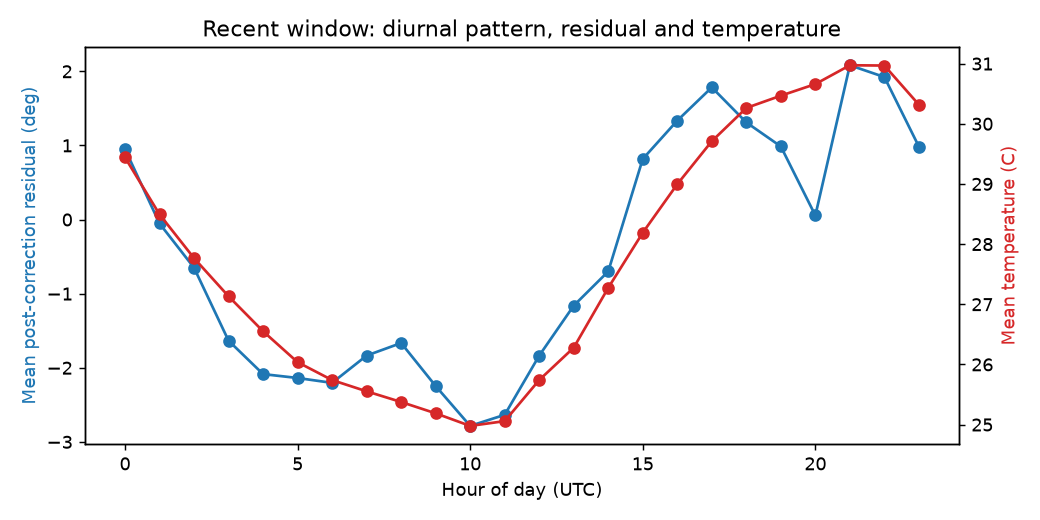
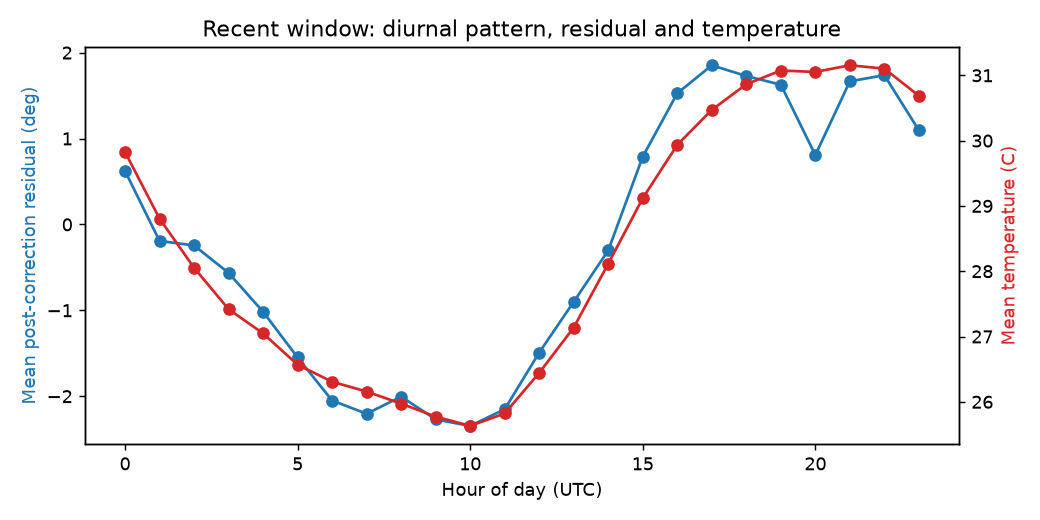
Extend recent-window coefficient check to full 9-day dataset (7/20-29)
Re-pulled 2026-07-20 17:00 local -> now (150k samples vs. 50k in the
initial 3-day check) and reran the same clean/correlate pipeline.
Bumped InfluxDB client read timeout to 300s -- the larger pull was
timing out at the previous default.

Findings hold up and sharpen with more data:
- Post-correction residual vs temp: +0.857 deg/C, r^2=0.67 (was +0.825,
  r^2=0.73) -- still the overcorrection signature.
- Reconstructed pre-correction raw slope: -0.164 deg/C, r^2=0.07 (was
  -0.196, r^2=0.13) -- weaker AND noisier with more data, not stronger.
  The -1.0211 deg/C deployed coefficient does not replicate.
- Wind coefficient stable at ~-0.20 deg/kn across both windows even as
  temp/wind collinearity dropped (r=0.54 -> 0.27) -- the more reliable
  finding in this analysis at this point, more so than any temperature
  coefficient.

Recommendation unchanged: reduce slope_deg_per_c well below -1.0211
(not a fresh confident refit off r^2=0.07) via the existing NVS-backed
POST /api/thermal/config, monitor, and separately verify mooring/
dockline slack before treating any residual as thermal.

diff --git a/analysis/thermal-drift/pull_recent.py b/analysis/thermal-drift/pull_recent.py
@@ -58,7 +58,7 @@ def main():
     out_dir = Path(__file__).parent / "data"
     out_dir.mkdir(exist_ok=True)
 
-    client = InfluxDBClient(url=INFLUXDB_URL, token=INFLUXDB_TOKEN, org=INFLUXDB_ORG)
+    client = InfluxDBClient(url=INFLUXDB_URL, token=INFLUXDB_TOKEN, org=INFLUXDB_ORG, timeout=300_000)
     series = {}
     for sk_path, (col_name, convert) in PATHS.items():
         print(f"Fetching {sk_path} ...")

diff --git a/analysis/thermal-drift/recent_correlation_summary.md b/analysis/thermal-drift/recent_correlation_summary.md
@@ -2,61 +2,61 @@
 
 Deployed firmware (v1.3.2) is already applying: slope = -1.0211 deg/C, T_ref = 30.0723 C. `heading_deg` below (navigation.headingCompass) is therefore the *post-correction* output, not raw sensor output.
 
-Baseline heading (median, post-correction): 212.257 deg
-Samples used: 50954
-Temperature range: 22.95 - 32.64 C
+Baseline heading (median, post-correction): 213.166 deg
+Samples used: 150734
+Temperature range: 22.95 - 33.60 C
 
 ## 1. Post-correction residual vs. temperature
-slope = 0.8250 deg/C, intercept = -23.3787 deg
-r = 0.8544, r^2 = 0.7301, p = 0.000e+00
+slope = 0.8568 deg/C, intercept = -24.5347 deg
+r = 0.8163, r^2 = 0.6663, p = 0.000e+00
 A large *positive* slope here (opposite sign to the original pre-correction -1.0211 deg/C fit) is the signature of overcorrection: the firmware is adding back more than the sensor is currently losing to temperature.
 
 ## 2. Wind-controlled multiple regression (post-correction residual ~ temp_c + wind_kn)
-intercept = -25.3155, temp_coef = 0.9578 deg/C, wind_coef = -0.2234 deg/kn
-R^2 = 0.7761  (vs. R^2 = 0.7301 for temp alone)
+intercept = -25.7189, temp_coef = 0.9427 deg/C, wind_coef = -0.2026 deg/kn
+R^2 = 0.7512  (vs. R^2 = 0.6663 for temp alone)
 
 ## 3. Diurnal pattern (hourly mean, UTC hour of day)
-      residual     temp_c    wind_kn
-hour                                
-0     0.951143  29.440673   7.645572
-1    -0.052941  28.493928   6.783400
-2    -0.650434  27.766314   6.604808
-3    -1.634724  27.132063   7.148715
-4    -2.085520  26.551071   7.199001
-5    -2.137945  26.037224   7.643224
-6    -2.203810  25.739619   7.441887
-7    -1.835681  25.552861   7.165682
-8    -1.666075  25.375218   6.292132
-9    -2.246448  25.187034   7.214700
-10   -2.784641  24.977756   5.914902
-11   -2.634937  25.057507   6.916672
-12   -1.836216  25.740299   7.269102
-13   -1.161983  26.278486   7.121693
-14   -0.699788  27.273178   8.137221
-15    0.817709  28.189556   7.942638
-16    1.334897  28.995577   8.881965
-17    1.783524  29.710248   9.592670
-18    1.310936  30.263057   9.327735
-19    0.986344  30.466782   9.957227
-20    0.055005  30.659794  10.107152
-21    2.081888  30.972622   9.128675
-22    1.922801  30.967929   9.175391
-23    0.983567  30.316528   8.399999
+      residual     temp_c   wind_kn
+hour                               
+0     0.623305  29.826772  6.419557
+1    -0.192548  28.806370  5.469951
+2    -0.244593  28.053291  4.741585
+3    -0.564285  27.418748  4.620766
+4    -1.016782  27.047300  4.692974
+5    -1.548506  26.567980  4.760024
+6    -2.049818  26.307062  5.488292
+7    -2.204277  26.156909  8.414998
+8    -2.004545  25.971479  4.848863
+9    -2.270039  25.773711  4.705315
+10   -2.345634  25.630623  4.054721
+11   -2.151888  25.821283  4.659122
+12   -1.492049  26.443042  5.169555
+13   -0.900374  27.137909  5.528432
+14   -0.302756  28.115400  6.271103
+15    0.789435  29.118298  6.988225
+16    1.525922  29.935723  7.805520
+17    1.852695  30.471083  7.842077
+18    1.727106  30.863923  7.791808
+19    1.626865  31.074124  8.217730
+20    0.807299  31.052024  8.225244
+21    1.666250  31.154418  7.933187
+22    1.736710  31.102694  7.260342
+23    1.094665  30.686350  6.991147
 
 ## 4. Reconstructed pre-correction ('raw sensor') signal vs. temperature
 Backs out the firmware's applied correction to estimate what the sensor's own output looks like before v1.3.2 compensation, for direct comparison with the original 2026-07-08/13 dockside fit.
-Reconstructed raw slope = -0.1958 deg/C (implied T_ref = 26.665 C), r = -0.3639, r^2 = 0.1324
+Reconstructed raw slope = -0.1643 deg/C (implied T_ref = 27.452 C), r = -0.2610, r^2 = 0.0681
 Original dockside fit (analysis/thermal-drift/correlation_summary.md): slope = -1.0211 deg/C, r^2 = 0.7666
-Magnitude ratio (this window / original fit): 0.19x
+Magnitude ratio (this window / original fit): 0.16x
 
 ## 5. Wind-controlled regression on the reconstructed raw signal
-intercept = 3.2869, temp_coef = -0.0627 deg/C, wind_coef = -0.2244 deg/kn, R^2 = 0.2821
-temp/wind collinearity in this window: r = 0.5387
+intercept = 3.3368, temp_coef = -0.0787 deg/C, wind_coef = -0.2025 deg/kn, R^2 = 0.3053
+temp/wind collinearity in this window: r = 0.2689
 Temperature's own contribution drops sharply once wind is included, while wind picks up a comparable-sized coefficient. Combined with the temp/wind collinearity above, this means the residual measured here may be partly (or mostly) a wind-correlated effect rather than pure sensor thermal drift -- and if the boat has any freedom to swing at the dock/mooring, part of this could be genuine heading change, not sensor error at all. This should be checked (mooring/dockline configuration, rate-of-turn during wind shifts) before trusting a temperature-only refit.
 
 ## 6. Synthesis / recommendation
-1. The post-correction heading still shows a strong residual-vs-temperature relationship (slope +0.825 deg/C, r^2=0.73), opposite in sign to the original raw fit -- the signature of overcorrection, not undercorrection.
-2. Reconstructing the pre-correction raw signal gives a current thermal slope of only -0.196 deg/C (r^2=0.13), about 0.2x weaker than the -1.0211 deg/C, r^2=0.77 relationship the deployed coefficient was fit on -- the coefficient is sized for a much stronger effect than is present now.
+1. The post-correction heading still shows a strong residual-vs-temperature relationship (slope +0.857 deg/C, r^2=0.67), opposite in sign to the original raw fit -- the signature of overcorrection, not undercorrection.
+2. Reconstructing the pre-correction raw signal gives a current thermal slope of only -0.164 deg/C (r^2=0.07), about 0.2x weaker than the -1.0211 deg/C, r^2=0.77 relationship the deployed coefficient was fit on -- the coefficient is sized for a much stronger effect than is present now.
 3. However, wind is a significant competing/confounding factor here (see section 5) in a way it was not in the original dockside fit -- so before deploying a new fixed slope, recommend: (a) temporarily set slope_deg_per_c=0 via POST /api/thermal/config and watch Grafana to confirm overcorrection is the dominant effect, (b) confirm mooring/dockline configuration didn't allow the boat to swing with wind during this window, (c) only then refit, ideally with wind included in the deployed model rather than temperature alone.
 
 ## Plots written

diff --git a/analysis/thermal-drift/data/recent_data_quality_summary.md b/analysis/thermal-drift/data/recent_data_quality_summary.md
@@ -1,11 +1,11 @@
 # eCompass Recent-Window Coefficient Check — Data Quality Summary
 
-Raw window: 2026-07-20 21:00:00.335000+00:00 -> 2026-07-23 19:46:06.172000+00:00
-Raw rows: 769021
-Heading samples: 63548 (~898.32/hr)
+Raw window: 2026-07-20 21:00:00.335000+00:00 -> 2026-07-29 14:24:17.872000+00:00
+Raw rows: 2281726
+Heading samples: 188131 (~899.05/hr)
 
 ## Gaps in heading series (> 5.0s)
-Total gaps: 51
+Total gaps: 90
                          gap_end  gap_s
 2026-07-21 00:27:41.911000+00:00 15.947
 2026-07-21 10:27:58.348000+00:00 27.854
@@ -58,20 +58,73 @@ Total gaps: 51
 2026-07-23 10:37:01.547000+00:00 80.581
 2026-07-23 13:24:09.641000+00:00  7.898
 2026-07-23 15:31:18.040000+00:00  8.192
+2026-07-24 10:53:27.002000+00:00  8.090
+2026-07-24 11:56:18.598000+00:00 19.891
+2026-07-24 11:59:36.204000+00:00  5.384
+2026-07-24 12:01:39.884000+00:00  9.076
+2026-07-24 12:02:15.941000+00:00  5.152
+2026-07-24 12:56:06.705000+00:00 12.026
+2026-07-24 12:59:58.777000+00:00 15.952
+2026-07-24 13:09:46.782000+00:00 23.977
+2026-07-24 13:15:06.631000+00:00 15.844
+2026-07-24 19:30:21.039000+00:00  5.844
+2026-07-25 13:15:04.988000+00:00  8.998
+2026-07-26 11:10:38.462000+00:00  5.390
+2026-07-26 11:27:25.166000+00:00 24.082
+2026-07-26 11:32:35.021000+00:00  5.824
+2026-07-26 19:44:17.648000+00:00  7.889
+2026-07-27 10:14:38.271000+00:00 19.909
+2026-07-27 10:34:39.905000+00:00  5.552
+2026-07-27 11:53:46.312000+00:00 19.988
+2026-07-27 12:00:31.537000+00:00  5.100
+2026-07-27 12:03:46.272000+00:00 15.829
+2026-07-27 12:21:31.821000+00:00  5.474
+2026-07-27 14:01:34.549000+00:00 15.972
+2026-07-27 14:43:48.249000+00:00  5.611
+2026-07-27 16:11:02.205000+00:00  7.577
+2026-07-27 20:00:24.916000+00:00  9.906
+2026-07-27 20:00:30.769000+00:00  5.853
+2026-07-27 21:13:58.881000+00:00 23.961
+2026-07-28 10:42:15.349000+00:00 23.742
+2026-07-28 16:18:54.146000+00:00  6.031
+2026-07-28 19:43:36.016000+00:00  7.918
+2026-07-28 19:47:17.104000+00:00  5.047
+2026-07-28 19:47:53.727000+00:00  5.547
+2026-07-28 20:27:20.072000+00:00  8.000
+2026-07-29 08:12:24.707000+00:00  7.508
+2026-07-29 08:42:14.200000+00:00  5.493
+2026-07-29 10:46:10.315000+00:00 81.558
+2026-07-29 12:21:56.201000+00:00  5.414
+2026-07-29 13:37:46.727000+00:00  8.258
+2026-07-29 13:44:46.676000+00:00  7.774
 
 ## Reconnect-swing artifacts excluded (gap followed by swing-and-return)
 Count: 0
 (none found)
 
 ## Speed-over-ground exceptions (> 1.0 kn, i.e. possibly not stationary)
-Count of flagged windows: 4
+Count of flagged windows: 18
 - 2026-07-21 09:23:11.436000+00:00 -> 2026-07-21 09:23:11.436000+00:00
 - 2026-07-22 02:21:21.843000+00:00 -> 2026-07-22 02:21:21.843000+00:00
 - 2026-07-23 07:15:00.239000+00:00 -> 2026-07-23 07:15:00.239000+00:00
 - 2026-07-23 08:08:47.342000+00:00 -> 2026-07-23 08:08:47.342000+00:00
+- 2026-07-23 22:49:09.207000+00:00 -> 2026-07-23 22:49:09.207000+00:00
+- 2026-07-24 07:16:21.222000+00:00 -> 2026-07-24 07:16:21.222000+00:00
+- 2026-07-24 11:11:56.205000+00:00 -> 2026-07-24 11:11:56.205000+00:00
+- 2026-07-25 11:09:03.302000+00:00 -> 2026-07-25 11:09:03.302000+00:00
+- 2026-07-26 07:56:02.144000+00:00 -> 2026-07-26 07:56:13.320000+00:00
+- 2026-07-26 11:02:35.697000+00:00 -> 2026-07-26 11:03:19.232000+00:00
+- 2026-07-26 11:08:37.715000+00:00 -> 2026-07-26 11:08:37.715000+00:00
+- 2026-07-26 22:37:12.729000+00:00 -> 2026-07-26 22:37:12.729000+00:00
+- 2026-07-27 07:55:17.146000+00:00 -> 2026-07-27 07:55:17.146000+00:00
+- 2026-07-27 10:56:38.796000+00:00 -> 2026-07-27 10:56:38.796000+00:00
+- 2026-07-27 16:42:16.397000+00:00 -> 2026-07-27 16:42:16.397000+00:00
+- 2026-07-28 02:02:36.589000+00:00 -> 2026-07-28 02:02:36.589000+00:00
+- 2026-07-28 07:51:20.404000+00:00 -> 2026-07-28 07:51:20.404000+00:00
+- 2026-07-28 10:53:07.958000+00:00 -> 2026-07-28 10:53:07.958000+00:00
 
 ## Result
-Rows excluded (artifact + SOG windows): 2918 of 769021 raw rows
-Resampled (5s) clean dataset: 50954 rows -> data/clean_recent.csv
-Temperature range: 22.08 - 33.12 C
+Rows excluded (artifact + SOG windows): 13267 of 2281726 raw rows
+Resampled (5s) clean dataset: 150772 rows -> data/clean_recent.csv
+Temperature range: 22.08 - 33.60 C
 Heading range (post-cleanup, already thermally-compensated by v1.3.2 firmware): 204.50 - 221.97 deg
